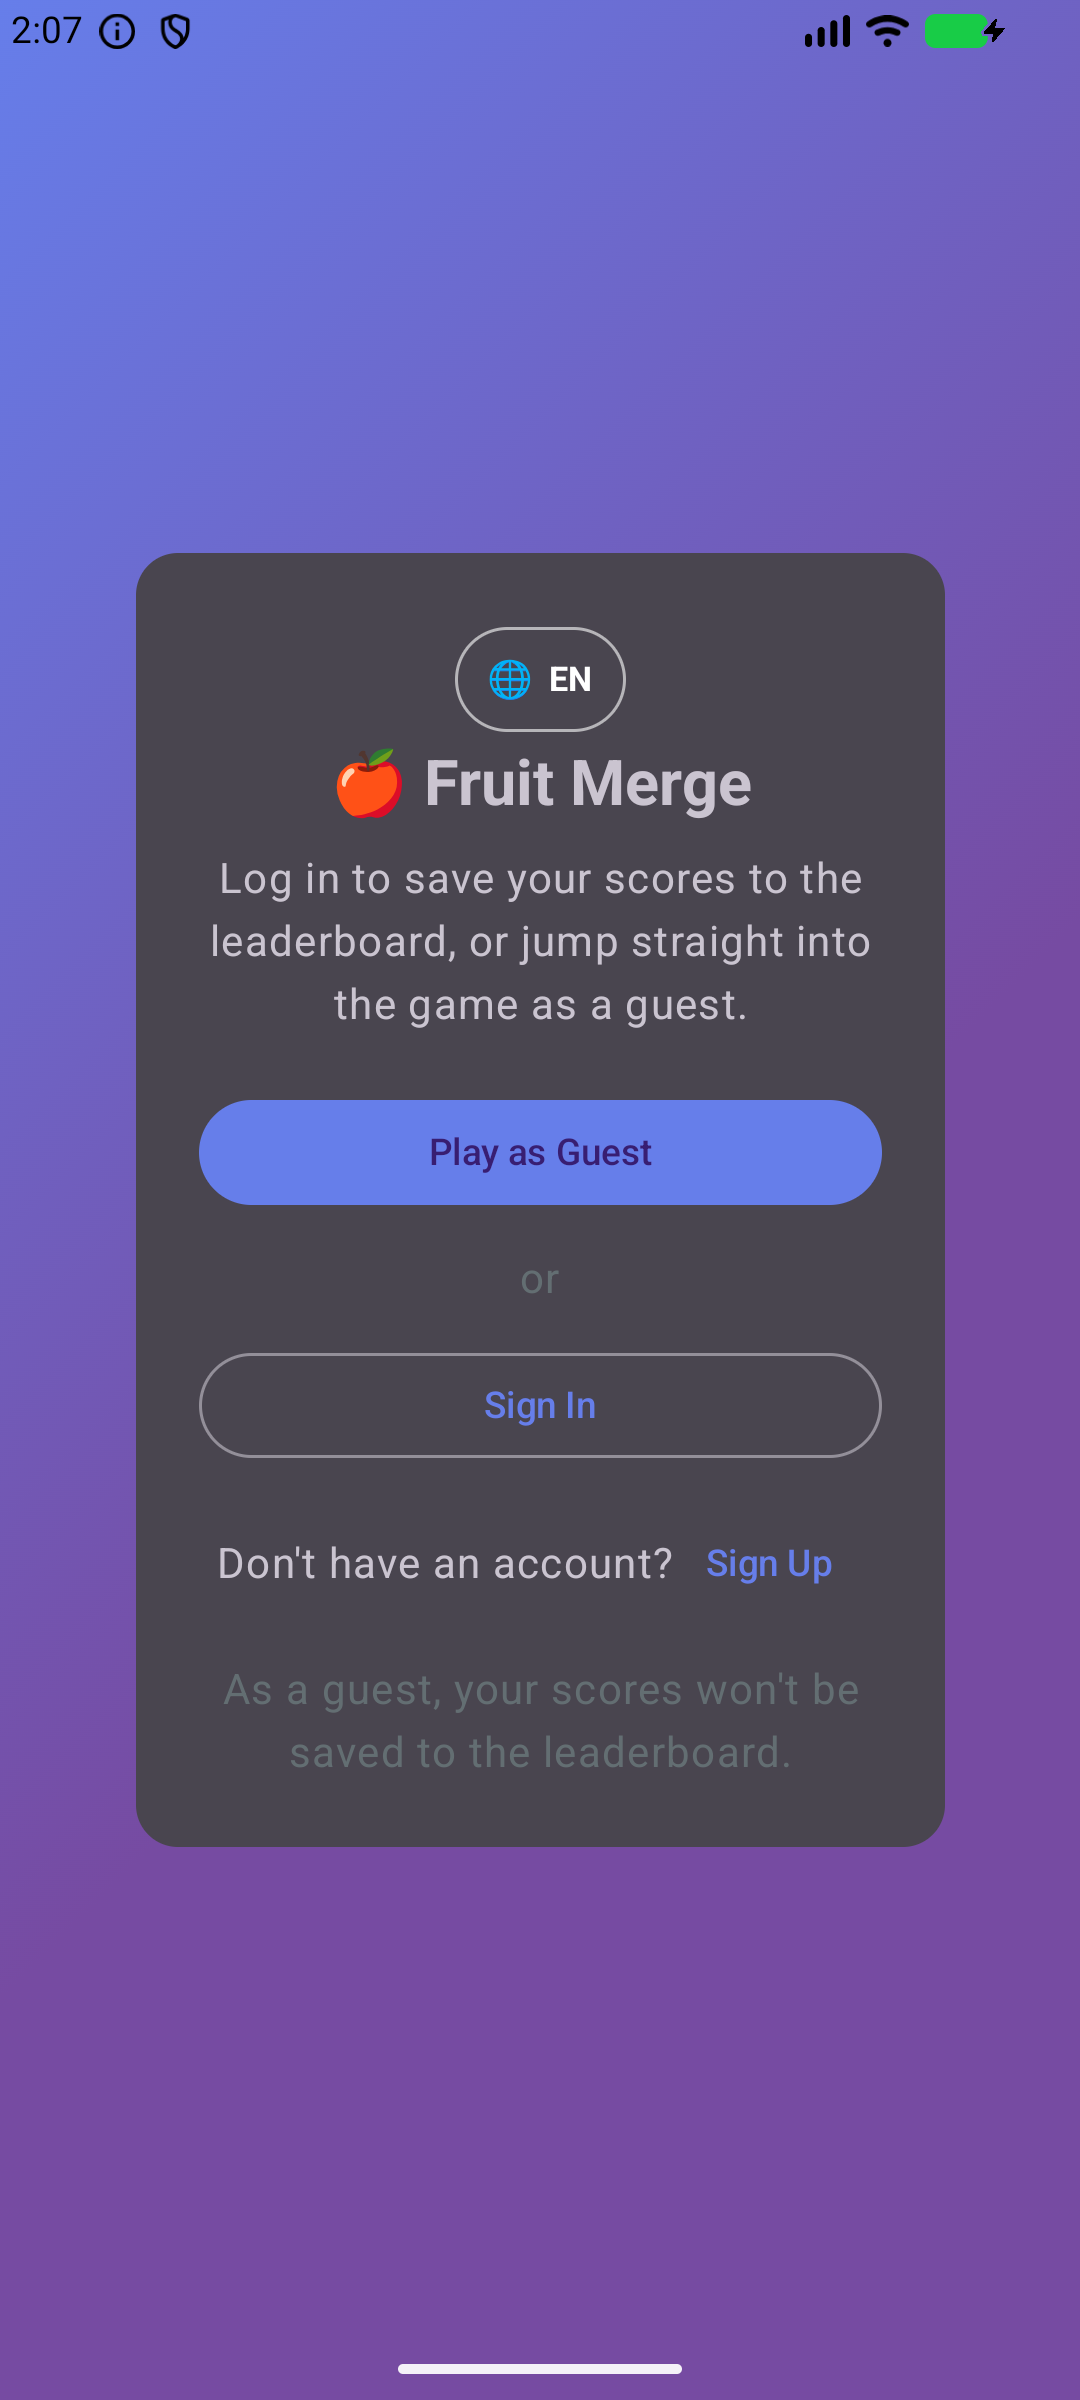
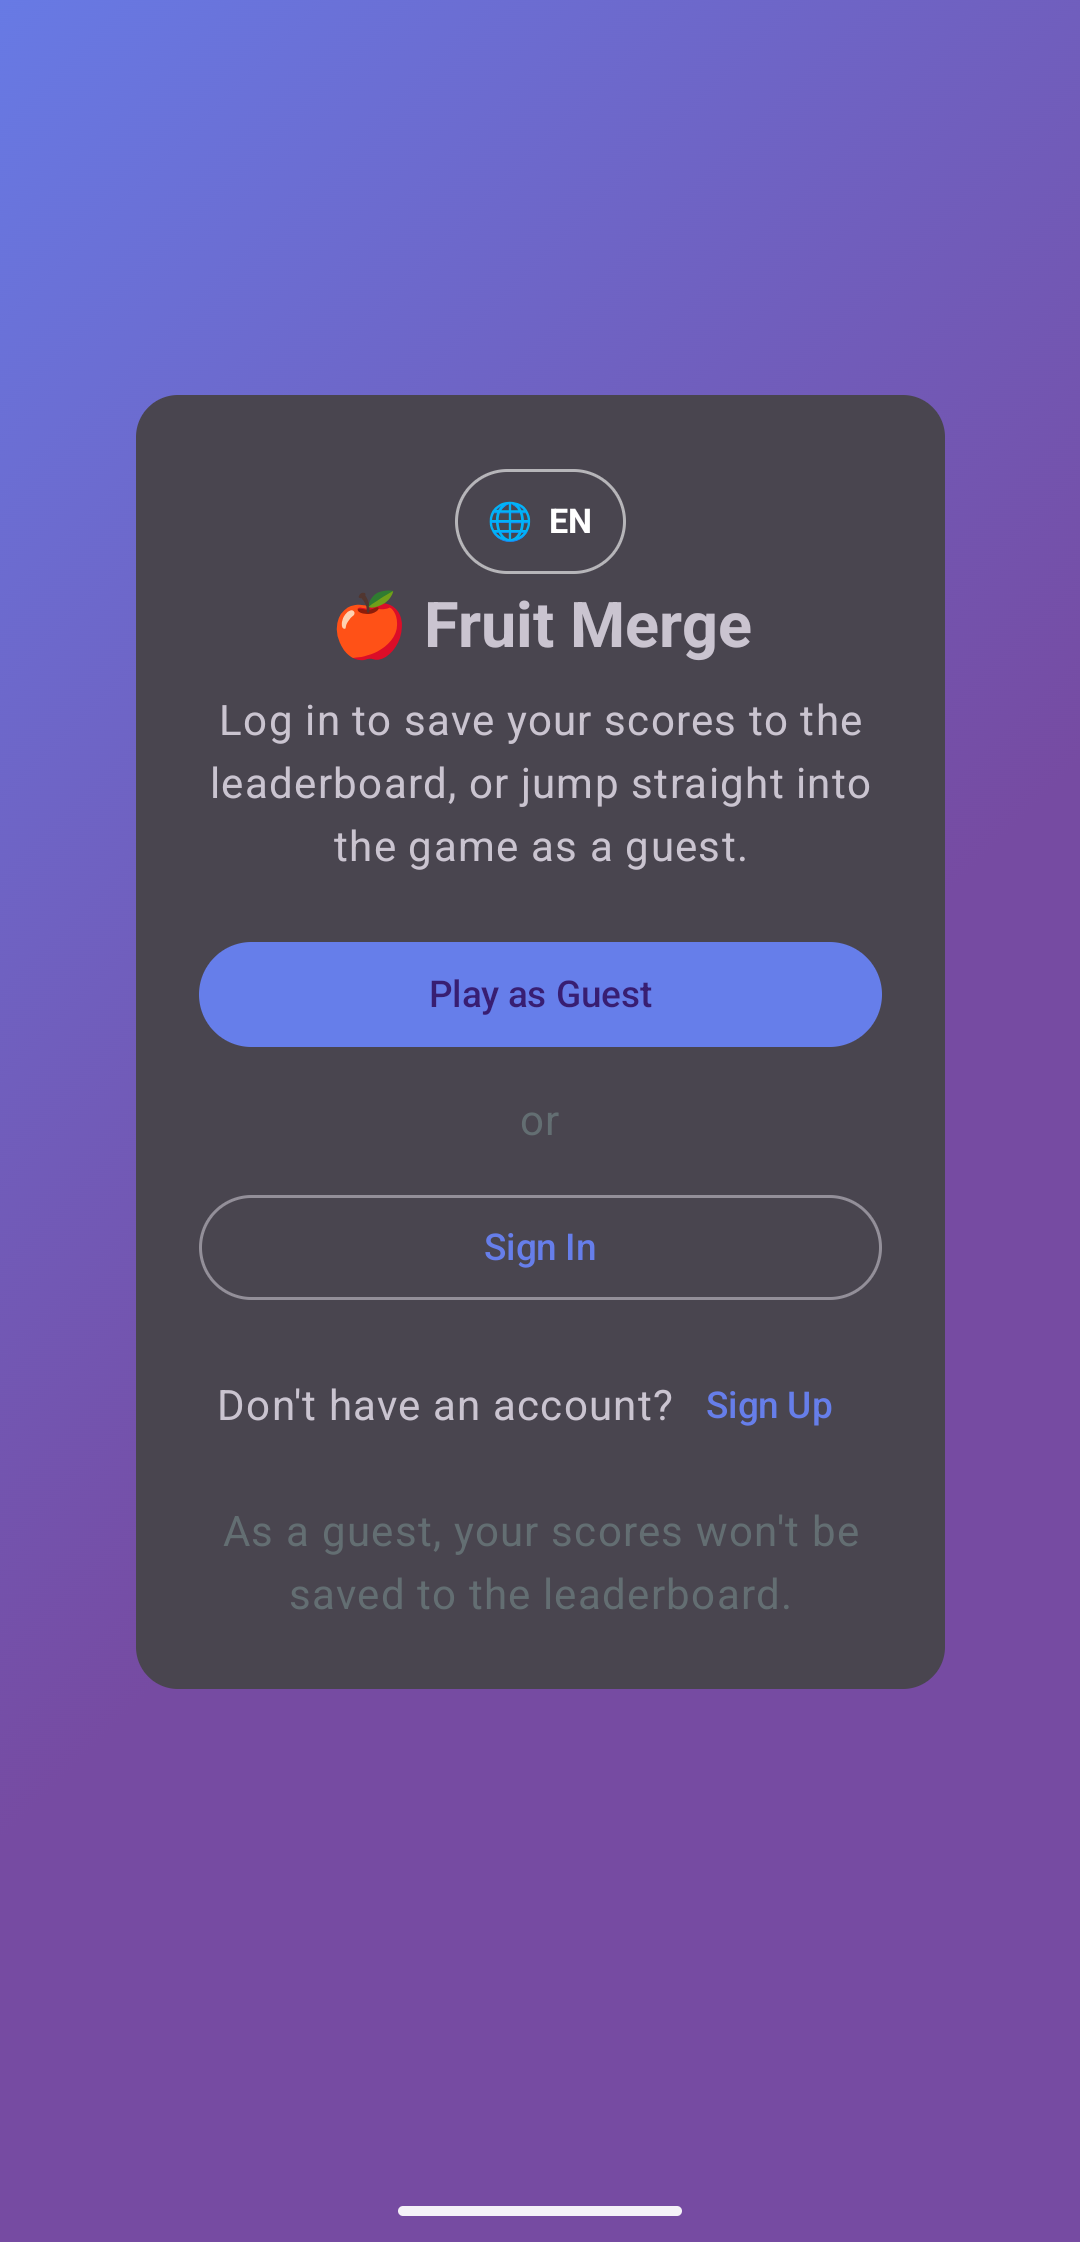
Crop status bar and guest header off store screenshots
All 6 screenshots trimmed 158px from the top, removing the OS status bar
and the in-app "Playing as Guest / Log in" row. Now 1080x2242.

diff --git a/docs/galaxy-store-submission.md b/docs/galaxy-store-submission.md
@@ -106,7 +106,7 @@ because of the leaderboard.
 |---|---|---|
 | Signed release APK | `app/build/outputs/apk/release/app-release.apk` (v2-signed, `com.a1exymoroz.mergefruit`, versionCode 1) | ✅ built |
 | App icon | 512 × 512 PNG | ✅ `docs/store-assets/icon-512.png` (regenerate with `make_icon.py`) |
-| Screenshots | 4–8 phone screenshots, PNG/JPG, min ~480 px, portrait | ✅ `docs/store-assets/screenshots/` — 6 shots, 1080×2400, captured on an API-37 emulator (welcome, early game, full board, fruit dropping, game over, how-to-play) |
+| Screenshots | 4–8 phone screenshots, PNG/JPG, min ~480 px, portrait | ✅ `docs/store-assets/screenshots/` — 6 shots, 1080×2242 (status bar + "Playing as Guest" header cropped off), captured on an API-37 emulator (welcome, early game, full board, fruit dropping, game over, how-to-play) |
 | Privacy policy URL | public HTTPS page | ⬜ enable GitHub Pages (below) |
 
 ### 1. Register as a seller (one-time)
@@ -127,9 +127,8 @@ because of the leaderboard.
 4. **Country / Region**: **Add All**, or pick a set (at minimum Poland). Choose "release automatically after approval".
 5. **Store Listing / Graphics**
    - App icon: upload `docs/store-assets/icon-512.png`
-   - Screenshots: upload `docs/store-assets/screenshots/01…06` (1080×2400). If the
-     portal rejects the 9:20 aspect ratio, crop each to 1080×1920 or retake on a
-     16:9 device — the current shots keep the status bar and gesture pill.
+   - Screenshots: upload `docs/store-assets/screenshots/01…06` (1080×2242, status
+     bar and in-app guest header already cropped off).
    - (Feature/promo graphics are optional — skip for v1)
 6. **Age rating**: click into the **IARC questionnaire** and answer per the table above. Save the certificate it issues.
 7. **Price**: Free.
